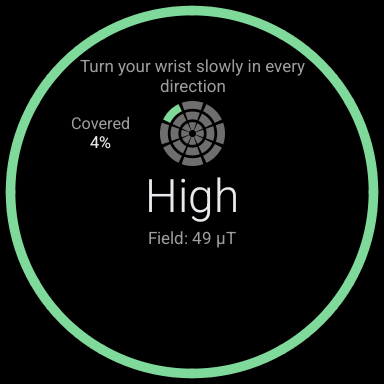
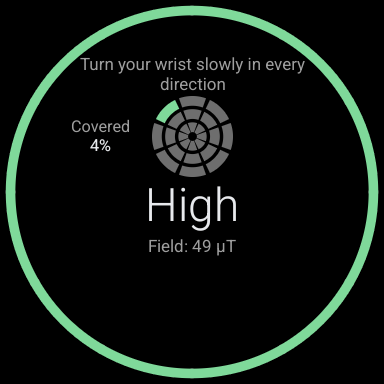
calibrate-release-small.png retaken on the release build with the ring at 0.21; its index row corrected (v3 Task 7 fix round 2)
Claude-Session: https://claude.ai/code/session_01KAiVD4eVXLN9qRyssXtjz6

Changed region(s): [[0.2188, 0.1562, 0.8125, 0.6562], [0.1875, 0.2812, 0.3438, 0.4062]]

diff --git a/docs/screenshots/README.md b/docs/screenshots/README.md
@@ -113,7 +113,7 @@ The `coords` pictures were taken again on 2026-10-15 (v3 Task 8), with the latit
 | Every switch off (3 frames: top, middle, end) | `settings-all-off` | `settings`: each row tapped, and `Turn off` answered to the backup's question |
 | Calibration: seven segments of the ring lit, `Covered 29%`, and the `Check` row at the bottom (2026-10-15, v3 Tasks 6 and 7; retaken in Task 7 fix round 1 with the ring at 0.21 of the radius) | `calibrate` | `calibration`: `Calibrate` tapped at heading 40, then the fields `0:20:-45 -20:0:-45 0:-20:-45 20:0:-45 45:20:0 0:20:45` set through the console |
 | Interference (2026-10-15, retaken in v3 Task 6 fix round 1 and, with the larger ring, in Task 7 fix round 1) | `calibrate-interference` | `calibration`: then `adb emu sensor set magnetic-field 46:46:-65` (92 microtesla, through the back toward the upper right): that segment lights too, 33%, with the warning and the red frame |
-| The release build's calibration: no `Check` row (2026-10-15, v3 Task 7; taken with the ring at 0.17 of the radius, before Task 7 fix round 1 made it 0.21) | `calibrate-release` (small only) | by hand: `./gradlew assembleRelease`, the unsigned APK aligned and signed with this machine's debug key in a scratch folder (`zipalign`, `apksigner`), installed in place of the debug build, `Calibrate` tapped; the debug build installed again after |
+| The release build's calibration: no `Check` row, the ring at 0.21 of the radius (2026-10-15, v3 Task 7 fix round 2) | `calibrate-release` (small only) | by hand: `./gradlew assembleRelease`, the unsigned APK aligned and signed with this machine's debug key in a scratch folder (`zipalign`, `apksigner`), installed in place of the debug build, `Calibrate` tapped; the debug build installed again after |
 | The check screen, its top: `Heading source` and `Fused heading` (2026-10-15, v3 Task 7; retaken in fix round 1 with the row's new label, with `check-inputs` and `check-vibrations`) | `check-top` | `check`: `Check` tapped on calibration at heading 40 |
 | The check screen in the watch build (minified, not debuggable): its top, and `Wear SDK reached` `Yes`, `One-handed gestures` `No` (2026-10-15, v3 Task 7 fix round 1) | `check-watch-build`, `check-watch-build-inputs` (small only) | by hand: `./gradlew assembleWatch`, `app-watch.apk` installed in place of the debug build, `Calibrate` and `Check` tapped, scrolled; the debug build installed again after |
 | The check screen at `Watch colors`: the scheme's colors with their dots (large: `dynamic_color_theme_enabled` 1, the API 35 image's `#D9E2FF` primary), or `None` | `check-watch-colors`, `check-watch-colors-none` (large) | `check`: scrolled; the large one with the setting put to 1 with `adb shell settings put global` and deleted after, the `-none` one and the small one without it |
